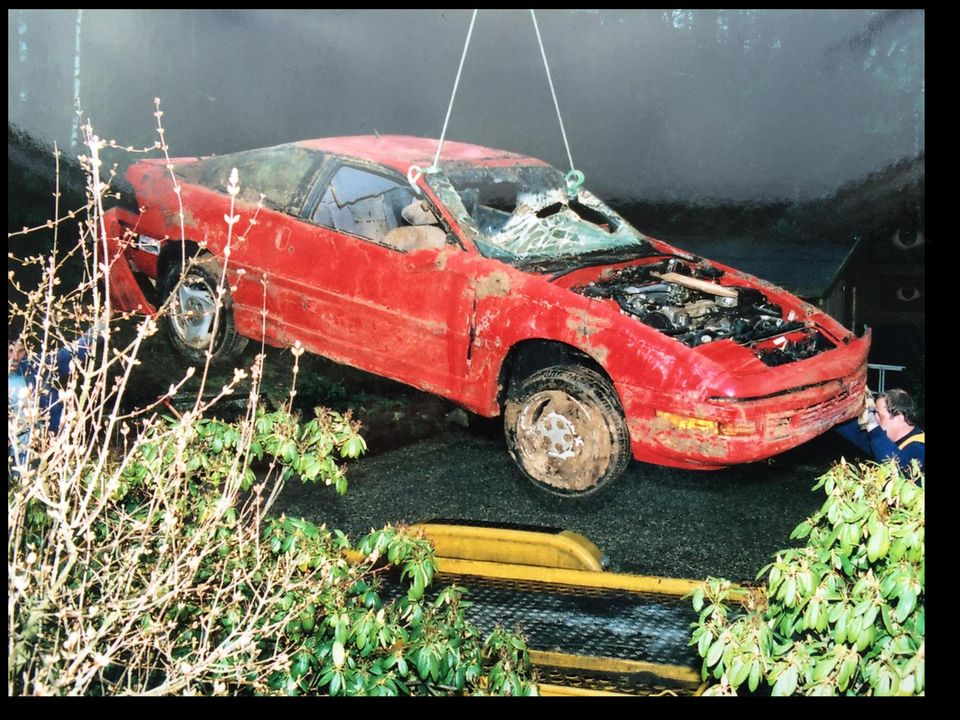
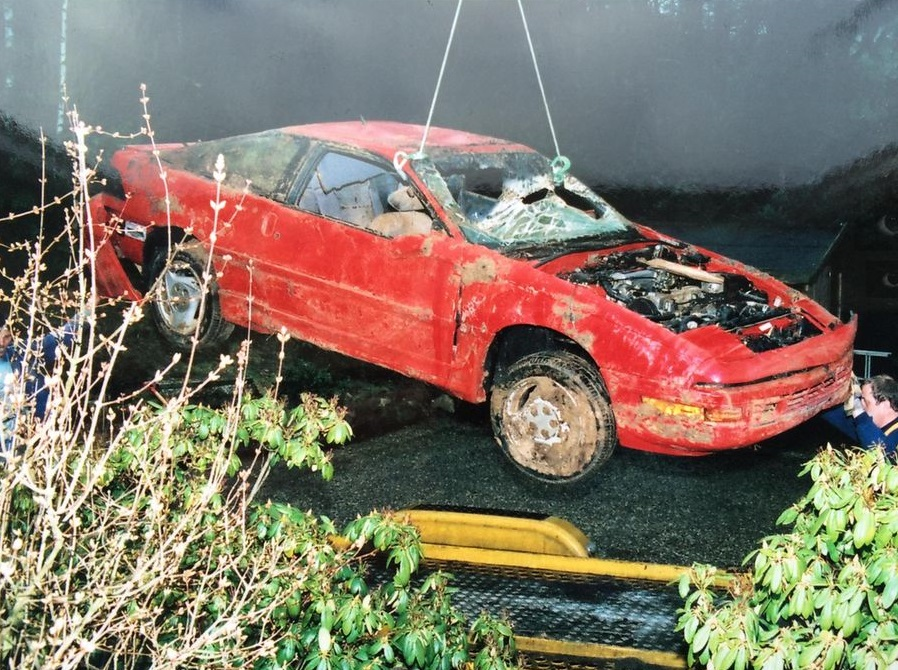
fix

diff --git a/css/modals.css b/css/modals.css
@@ -178,16 +178,3 @@
     border-bottom: 1px dashed #5e1616;
     padding: 20px 0;
 }
-
-.word-count-badge {
-    margin-top: 20px;
-    display: inline-block;
-    background-color: #5e0404;
-    color: #ff9999;
-    padding: 4px 10px;
-    font-size: 0.85em;
-    font-weight: bold;
-    border-radius: 3px;
-    font-family: monospace;
-    border: 1px solid #9c1010;
-}

diff --git a/index.html b/index.html
@@ -210,8 +210,6 @@
                 committing suicide in 1993, but the technological progression of forensic science eventually exposed his
                 ultimate guilt.
             </div>
-
-            <div class="word-count-badge">Word Count: 251 words</div>
         </div>
     </div>
 
